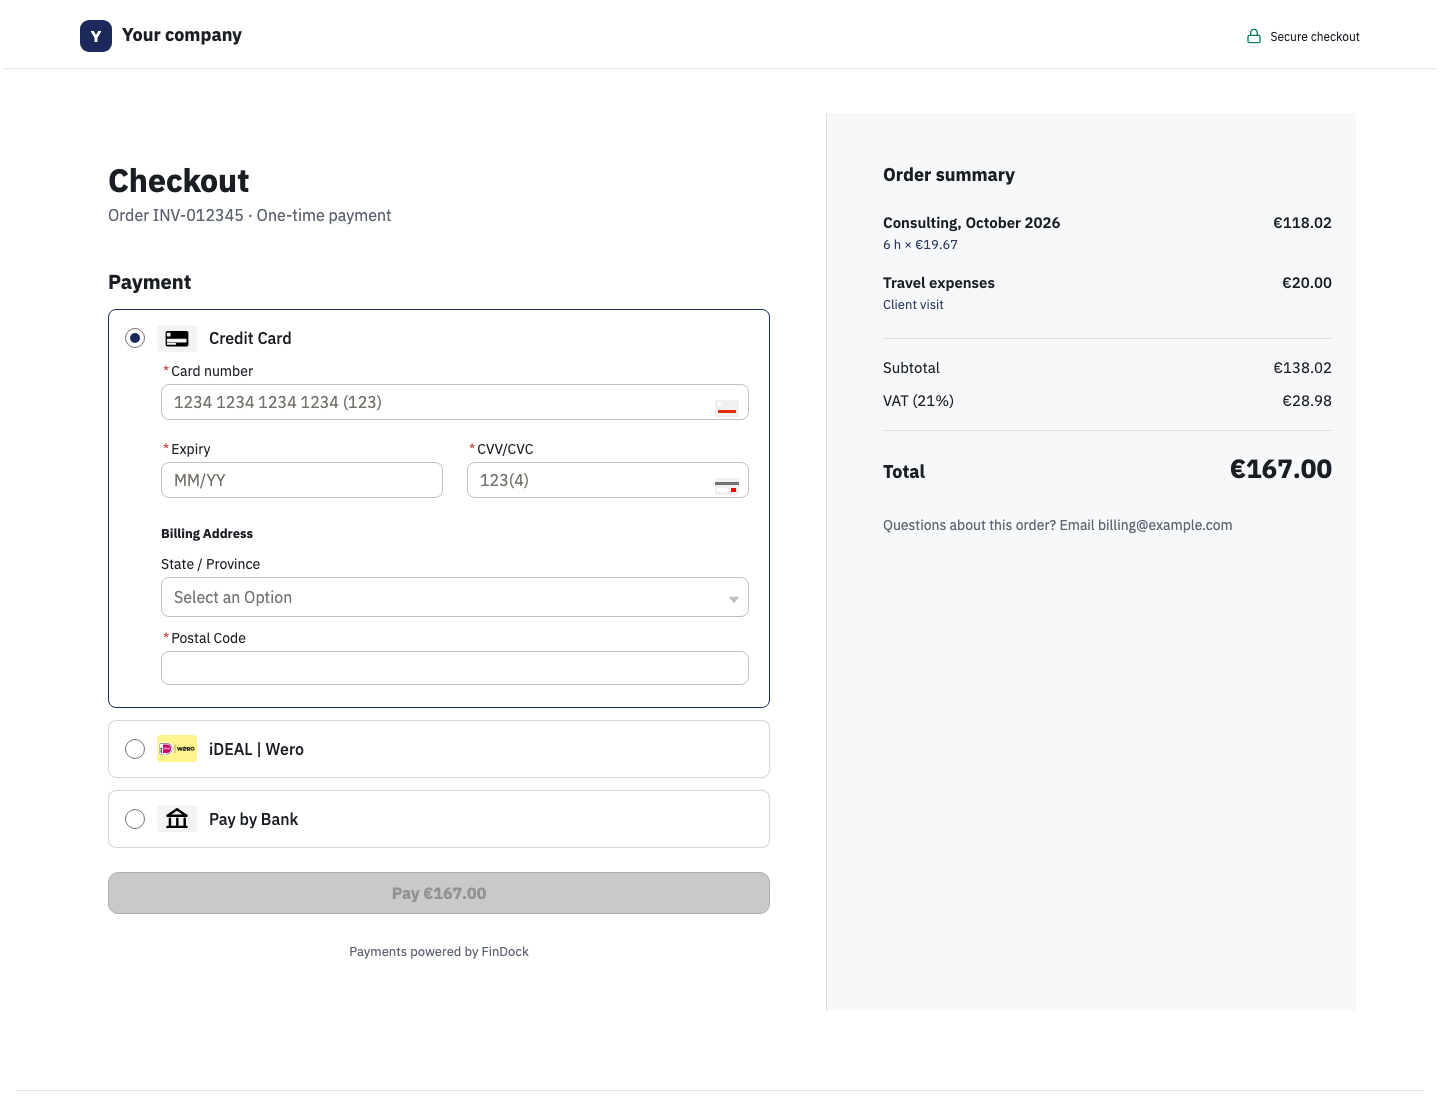
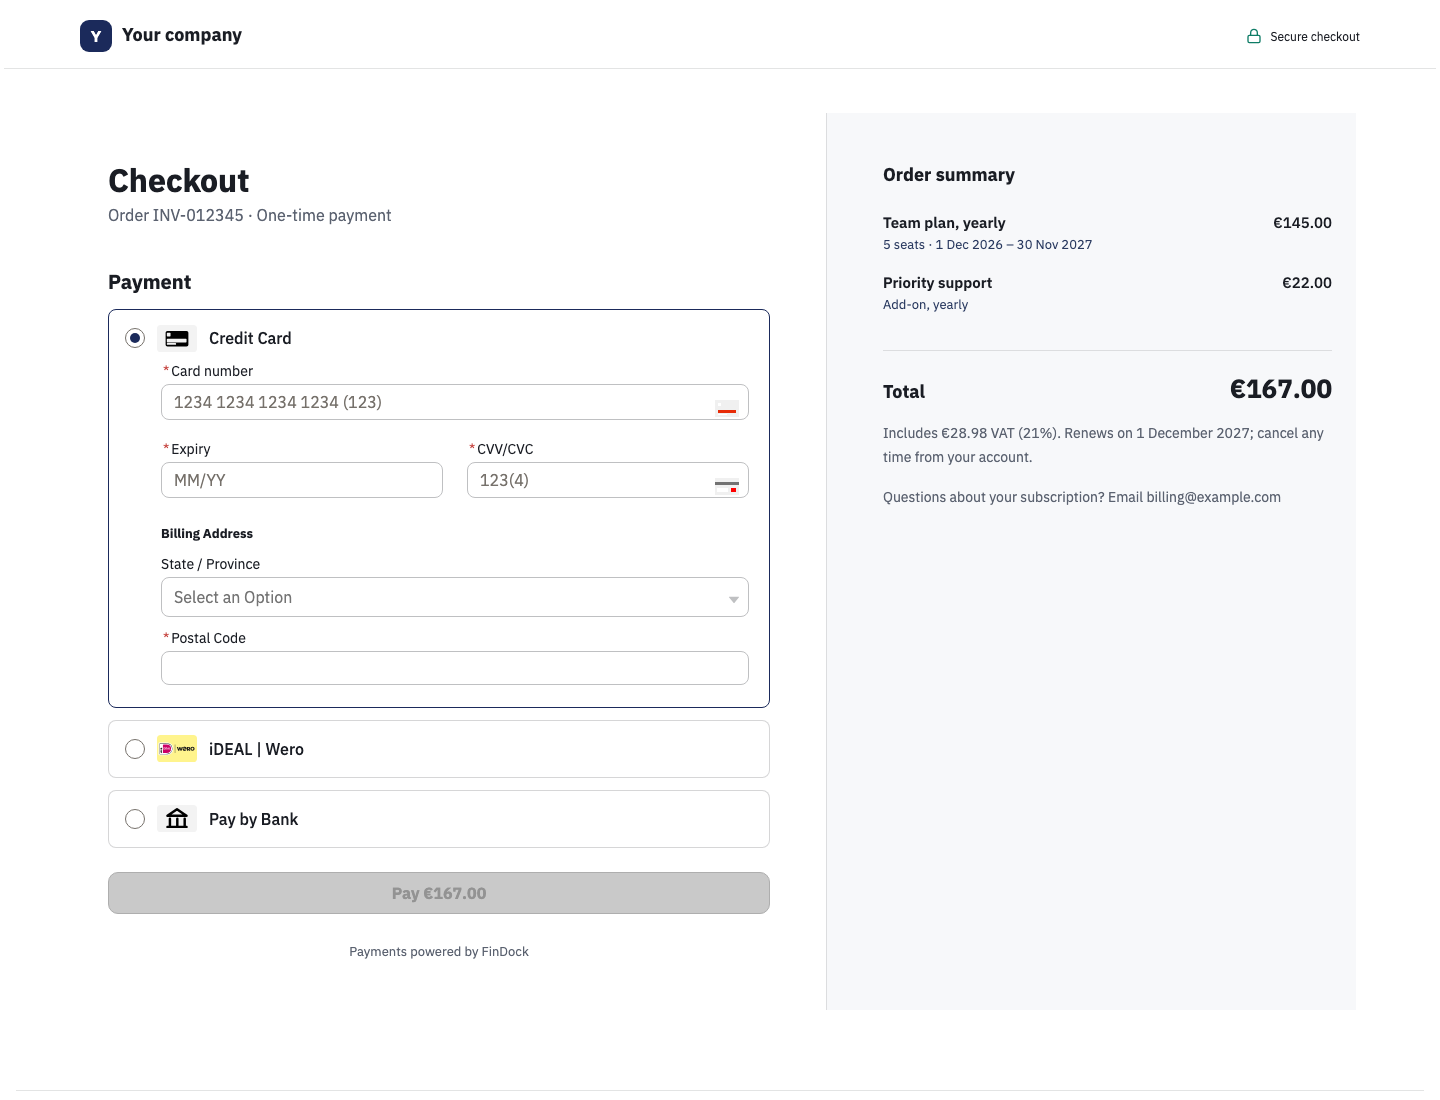
Use a subscription example in the checkout order summary
- Order summary shows a yearly Team plan, VAT in a note under the total
- Tighter spacing for the notes under the total
- Updated checkout README image

Changed region(s): [[0.5938, 0.3091, 0.9375, 0.4945], [0.5938, 0.1855, 0.75, 0.2782]]

diff --git a/sfdx-source/packages/checkout-site/staticresources/checkoutStyles.css b/sfdx-source/packages/checkout-site/staticresources/checkoutStyles.css
@@ -10,6 +10,7 @@
  *   font-size: 20px / 18px          section headings and the total
  *   color: rgb(92, 98, 112)         a summary row: label left, amount right (Subtotal, VAT)
  *   color: rgb(26, 29, 37)          an order line: name and detail left, amount right
+ *   font-size: 14px                 a note under the total (VAT, renewal, questions)
  * Keep those when you edit the flow's texts (for example to make the order lines dynamic).
  */
 
@@ -229,10 +230,14 @@ body {
     font-size: 26px !important;
 }
 
-/* Questions line */
+/* Notes under the total (VAT, renewal, questions): the first one 12px below the total, the rest close together */
 :is(.checkout, c-invoice-pay-flow) .slds-medium-size_5-of-12 p:has(> span[style*="font-size: 14px"]) {
-    margin-top: 24px;
+    margin-top: 12px;
     line-height: 1.5;
+}
+
+:is(.checkout, c-invoice-pay-flow) .slds-medium-size_5-of-12 p:has(> span[style*="font-size: 14px"]) + p:has(> span[style*="font-size: 14px"]) {
+    margin-top: 16px;
 }
 
 /* Payment method rows: white with a soft border, brand border when selected */
